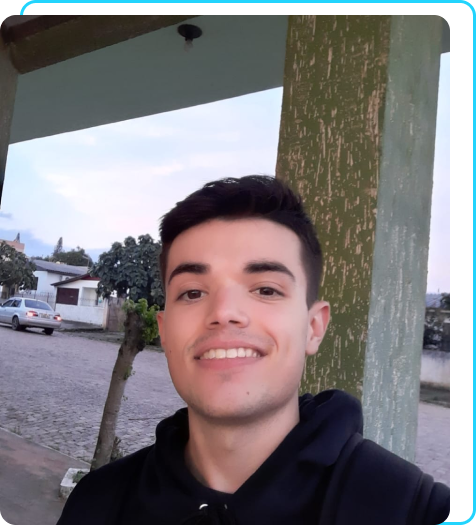
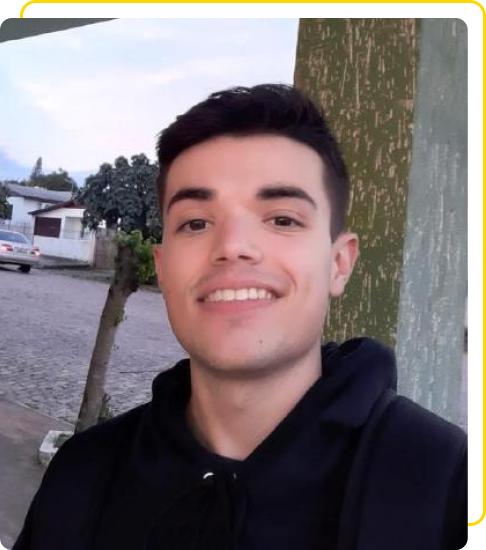
color

diff --git a/styles/style.css b/styles/style.css
@@ -1,9 +1,9 @@
 @import url('https://fonts.googleapis.com/css2?family=Krona+One&family=Montserrat:wght@300;600&display=swap');
 
 :root{
-    --cor-primaria: #1f1f1f;
+    --cor-primaria: #2B2B2B;
     --cor-secundaria: #f6f6f6;
-    --cor-terciaria: #22d4fd;
+    --cor-terciaria: #FFD700;
     --cor-hover: #272727;
 
     --fonte-primaria: 'Krona One', sans-serif;
